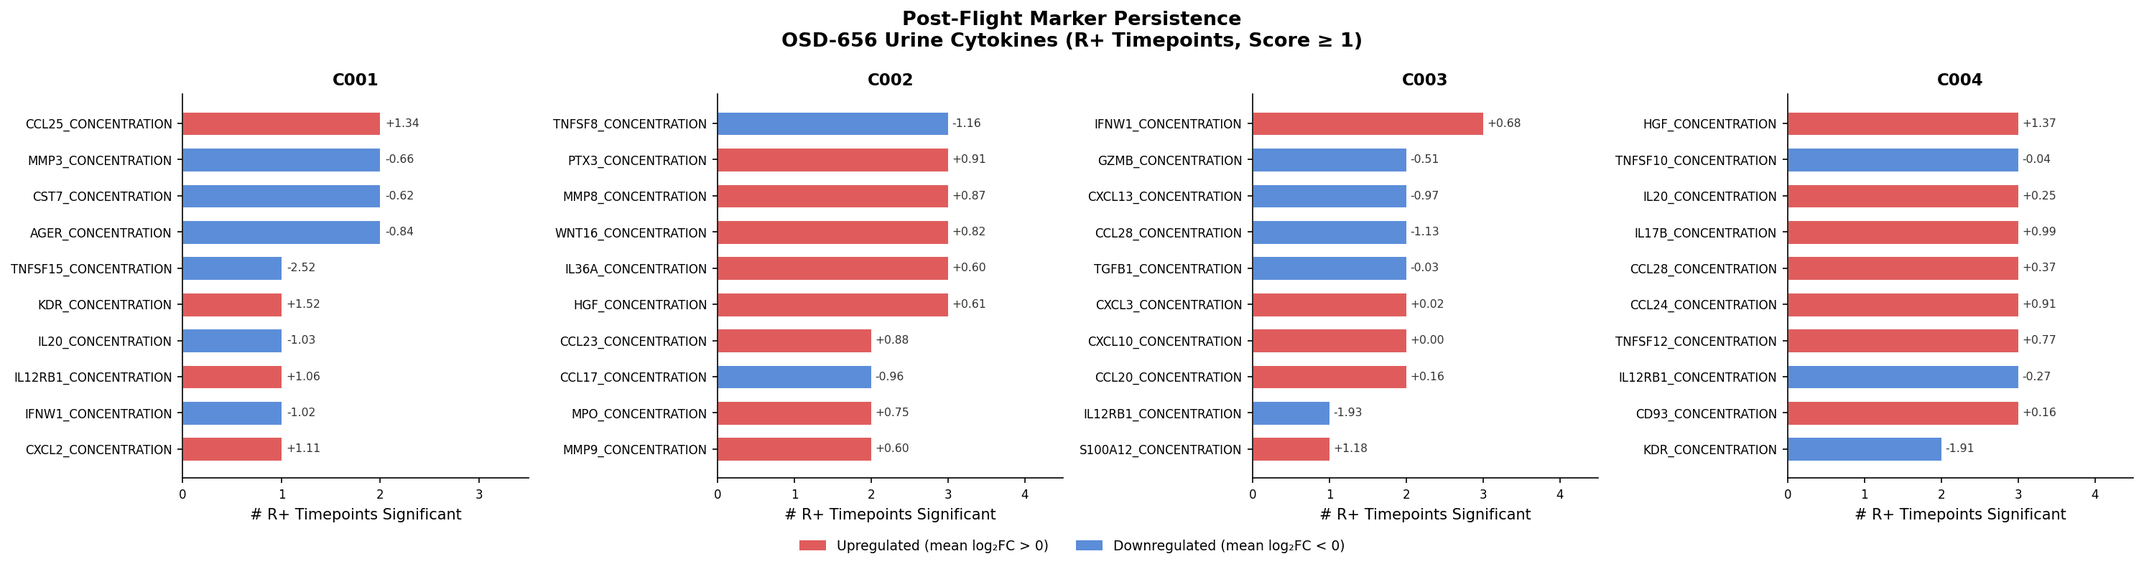
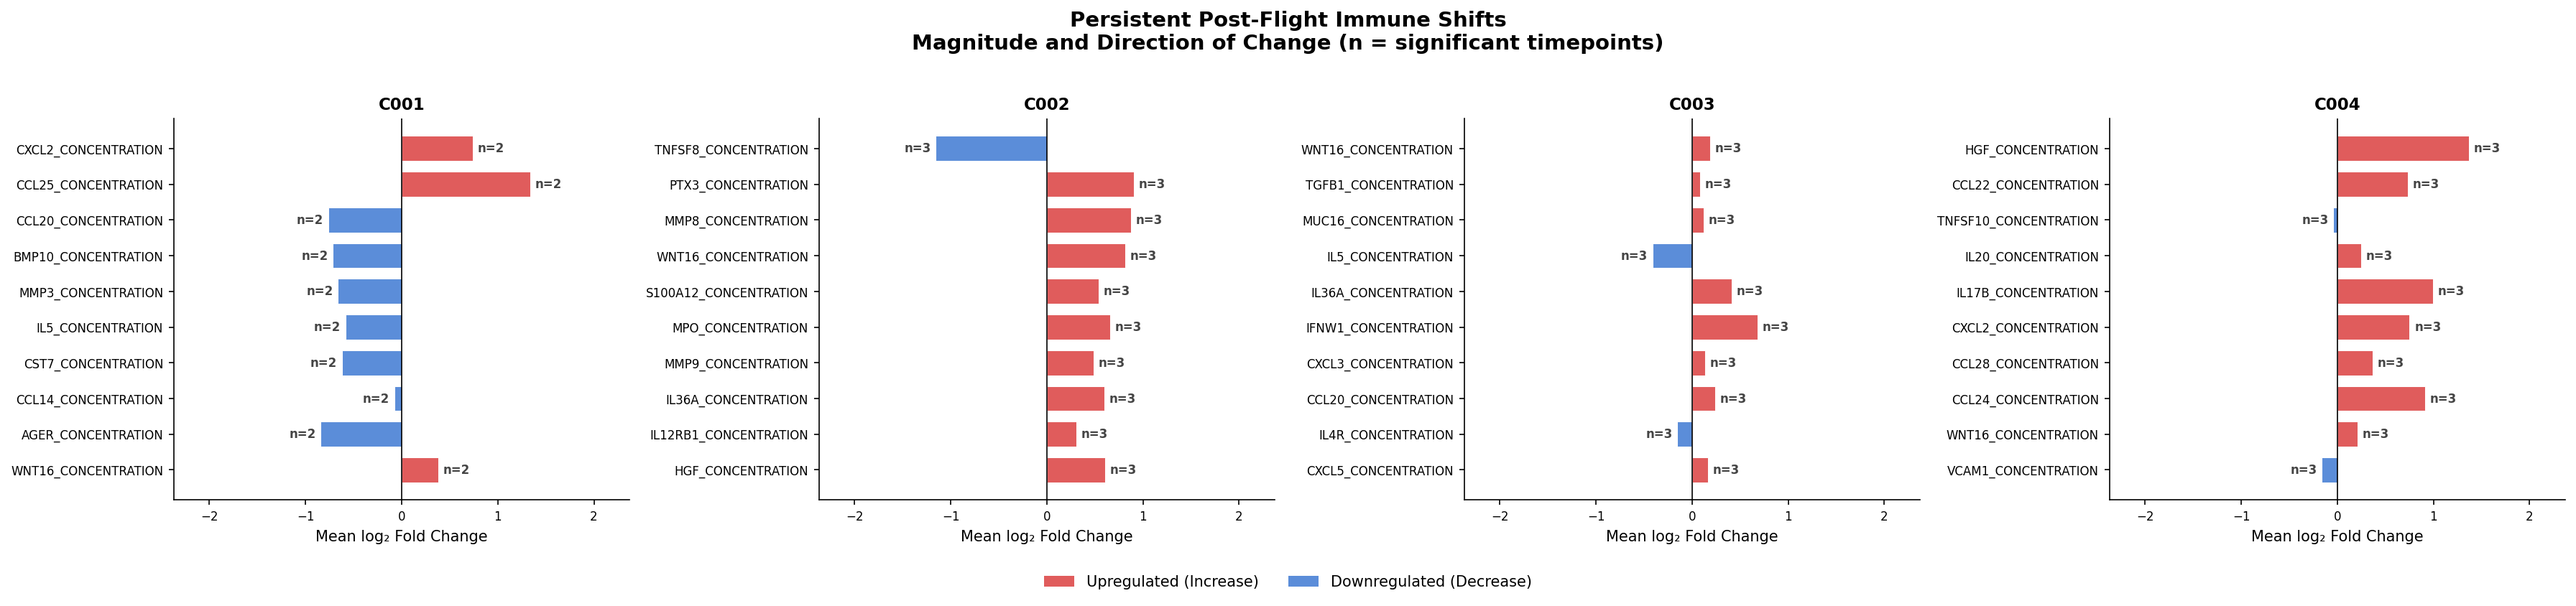
fix scaling and coloring of persistence bar chart

diff --git a/observations/urine/urine_viz.py b/observations/urine/urine_viz.py
@@ -2,6 +2,7 @@ import numpy as np
 import pandas as pd
 import matplotlib.pyplot as plt
 import matplotlib.ticker as ticker
+from matplotlib.patches import Patch
 import seaborn as sns
 import re
 
@@ -100,7 +101,7 @@ def plot_composite_timeline(composite_scores, output_path='fig1_composite_timeli
         ax.set_title(domain.replace('_', ' ').title(), color=color, fontweight='bold')
         ax.set_xticks(range(len(all_timepoints)))
         ax.set_xticklabels(all_timepoints, rotation=45, ha='right')
-        ax.set_ylim(0, 5.2)
+        ax.set_ylim(-5.2, 5.2)
         ax.set_xlabel('Timepoint')
         ax.yaxis.set_major_locator(ticker.MultipleLocator(1))
         ax.axhspan(2.0, 5.2, color=color, alpha=0.05)  # highlight elevated zone
@@ -186,35 +187,39 @@ def plot_log2fc_heatmap(urine_processed, output_path='fig2_log2fc_heatmap.png',
 # Faceted per astronaut
 # ─────────────────────────────────────────────
 def plot_persistence_bars(urine_processed, output_path='fig3_persistence_bars.png',
-                           top_n=10):
+                          top_n=10):
     """
-    Horizontal bar chart: markers ranked by how many post-flight
-    timepoints they had marker_score >= 1.
-    Color = mean log2FC direction (red=up, blue=down).
-    One subplot per astronaut.
+    Diverging horizontal bar chart: 
+    - Bar length = Mean log2FC (Magnitude)
+    - Rank = Persistence (How many timepoints significant)
+    - Color = Direction (Red = Up, Blue = Down)
     """
     df = urine_processed.copy()
     df['marker_short'] = df['marker'].str.extract(r'^([^_]+(?:_[^_]+)?)')[0].str.upper()
 
     postflight = df[df['timepoint'].str.startswith('R+')]
-    sig = postflight[postflight['marker_score'] >= 1]
+    
+    # Filter for both directions
+    sig = postflight[postflight['marker_score'].abs() >= 1]
 
     persistence = sig.groupby(['astronaut', 'marker_short']).agg(
         times_significant=('marker_score', 'count'),
         mean_log2fc=('log2fc', 'mean'),
-        max_score=('marker_score', 'max')
+        max_abs_score=('marker_score', lambda x: x.abs().max())
     ).reset_index()
 
     astronauts = sorted(persistence['astronaut'].unique())
     n = len(astronauts)
 
-    fig, axes = plt.subplots(1, n, figsize=(5 * n, 5))
+    fig, axes = plt.subplots(1, n, figsize=(6 * n, 5), sharex=True)
     if n == 1:
         axes = [axes]
 
     for ax, astro in zip(axes, astronauts):
         sub = persistence[persistence['astronaut'] == astro]
-        sub = sub.sort_values(['times_significant', 'max_score'], ascending=True).tail(top_n)
+        
+        # We still sort by persistence so the most 'reliable' markers are at the top
+        sub = sub.sort_values(['times_significant', 'max_abs_score'], ascending=True).tail(top_n)
 
         if sub.empty:
             ax.text(0.5, 0.5, 'No persistent markers', ha='center', va='center', 
@@ -223,35 +228,45 @@ def plot_persistence_bars(urine_processed, output_path='fig3_persistence_bars.pn
             continue
 
         colors = ['#E05C5C' if v > 0 else '#5B8DD9' for v in sub['mean_log2fc']]
-        bars = ax.barh(sub['marker_short'], sub['times_significant'],
-                       color=colors, edgecolor='white', linewidth=0.5, height=0.65)
+        
+        # CHANGE: Bar length is now the actual mean_log2fc value
+        bars = ax.barh(sub['marker_short'], sub['mean_log2fc'],
+                        color=colors, edgecolor='white', linewidth=0.5, height=0.7)
 
-        # Annotate with mean log2FC
+        # CHANGE: Annotate with the number of significant timepoints (Persistence)
         for bar, (_, row) in zip(bars, sub.iterrows()):
-            ax.text(bar.get_width() + 0.05, bar.get_y() + bar.get_height() / 2,
-                    f"{row['mean_log2fc']:+.2f}", va='center', fontsize=7.5, color='#333333')
+            # Place text at the end of the bar
+            x_pos = bar.get_width()
+            ha = 'left' if x_pos > 0 else 'right'
+            offset = 0.05 if x_pos > 0 else -0.05
+            
+            ax.text(x_pos + offset, bar.get_y() + bar.get_height() / 2,
+                    f"n={int(row['times_significant'])}", 
+                    va='center', ha=ha, fontsize=8, fontweight='bold', color='#444444')
 
-        ax.set_xlabel('# R+ Timepoints Significant')
+        ax.axvline(0, color='black', linewidth=0.8) # Add a center line at 0
+        ax.set_xlabel('Mean log₂ Fold Change')
         ax.set_title(astro, fontweight='bold')
-        ax.xaxis.set_major_locator(ticker.MaxNLocator(integer=True))
-        ax.set_xlim(0, sub['times_significant'].max() + 1.5)
+        
+        # Adjust limits to ensure labels fit
+        limit = max(sub['mean_log2fc'].abs().max() + 1, 2)
+        ax.set_xlim(-limit, limit)
 
     # Legend
-    from matplotlib.patches import Patch
     legend_elements = [
-        Patch(facecolor='#E05C5C', label='Upregulated (mean log₂FC > 0)'),
-        Patch(facecolor='#5B8DD9', label='Downregulated (mean log₂FC < 0)')
+        Patch(facecolor='#E05C5C', label='Upregulated (Increase)'),
+        Patch(facecolor='#5B8DD9', label='Downregulated (Decrease)')
     ]
     fig.legend(handles=legend_elements, loc='lower center', ncol=2,
-               bbox_to_anchor=(0.5, -0.05), fontsize=9, frameon=False)
+                bbox_to_anchor=(0.5, -0.08), fontsize=10, frameon=False)
 
-    fig.suptitle('Post-Flight Marker Persistence\nOSD-656 Urine Cytokines (R+ Timepoints, Score ≥ 1)',
-                 fontsize=13, fontweight='bold')
+    fig.suptitle('Persistent Post-Flight Immune Shifts\nMagnitude and Direction of Change (n = significant timepoints)',
+                 fontsize=14, fontweight='bold', y=1.02)
+    
     fig.tight_layout()
     fig.savefig(output_path, bbox_inches='tight')
     print(f"[✓] Saved: {output_path}")
     plt.close(fig)
-
 
 # ─────────────────────────────────────────────
 # MAIN — call this from urine.py

diff --git a/observations/urine/urine.py b/observations/urine/urine.py
@@ -6,7 +6,7 @@ from urine_viz import generate_all_figures
 
 
 # 2. Load the OSD-656 Urine Dataset
-urine_url = 'https://osdr.nasa.gov/geode-py/ws/studies/OSD-656/download?source=datamanager&file=LSDS-64_Multiplex_urine.immune.AlamarPanel_TRANSFORMED.csv'
+urine_url = 'observations/urine/urine_data.csv'
 urine_raw = pd.read_csv(urine_url, index_col=0)
 
 # 3. Run Pipeline
@@ -55,4 +55,4 @@ print("\n--- Persistent Domain Elevations (R+ Timepoints) ---")
 print(domain_persistence)
 
 
-generate_all_figures(urine_processed, composite_scores, output_dir='figures')
+generate_all_figures(urine_processed, composite_scores, output_dir='observations/urine/figures')
